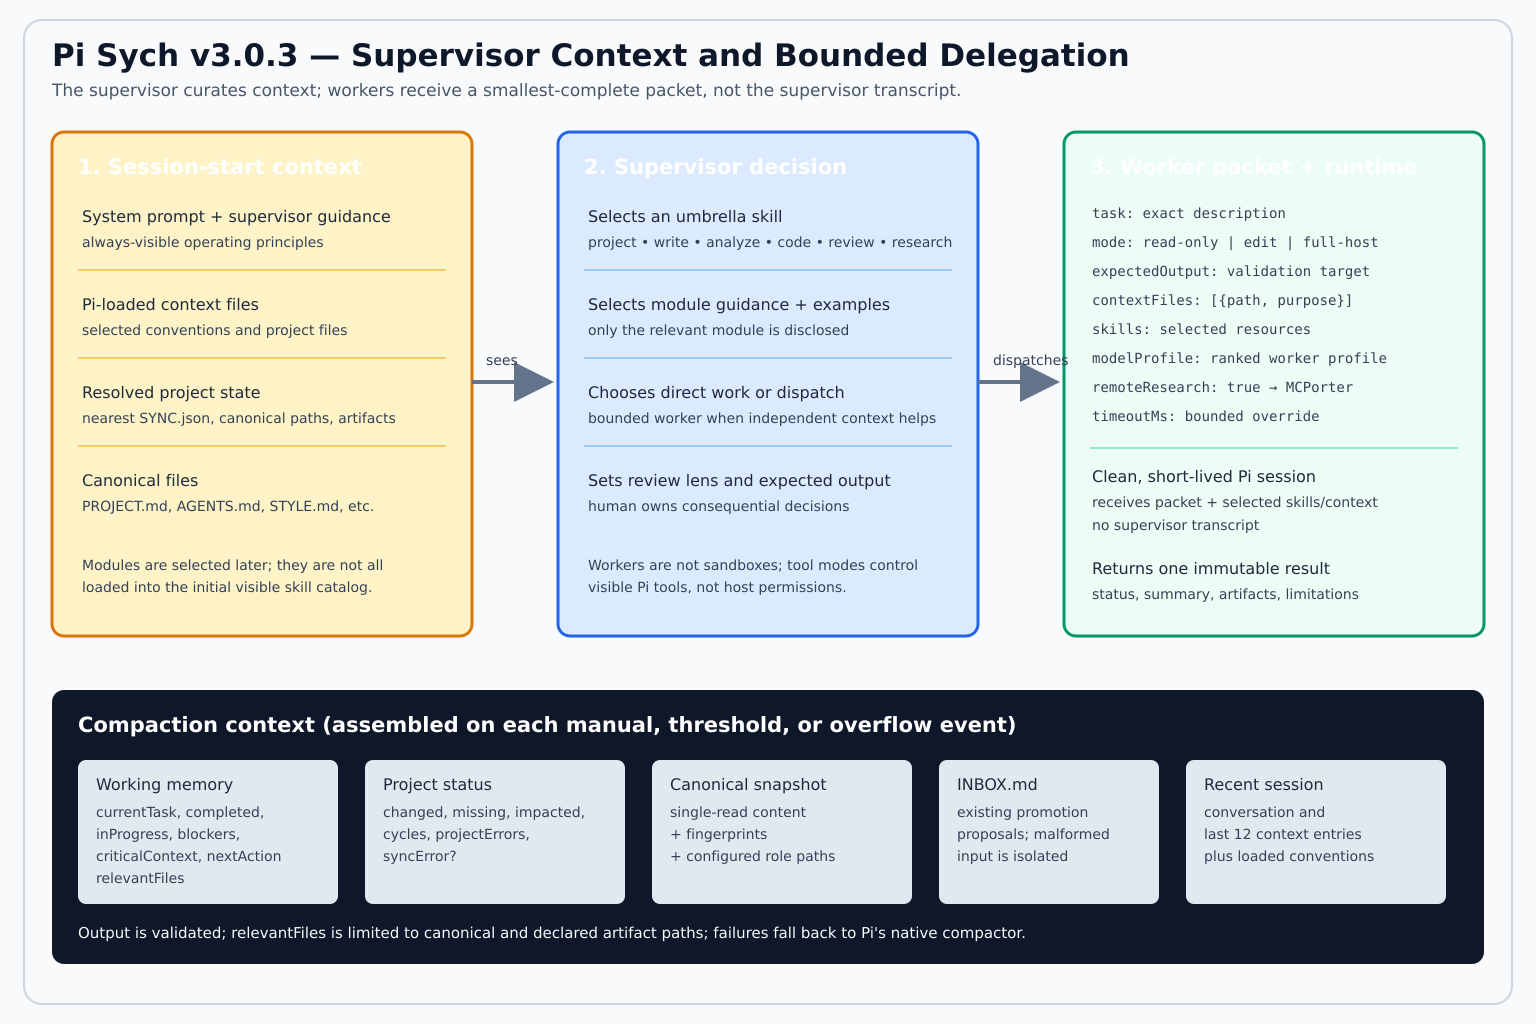
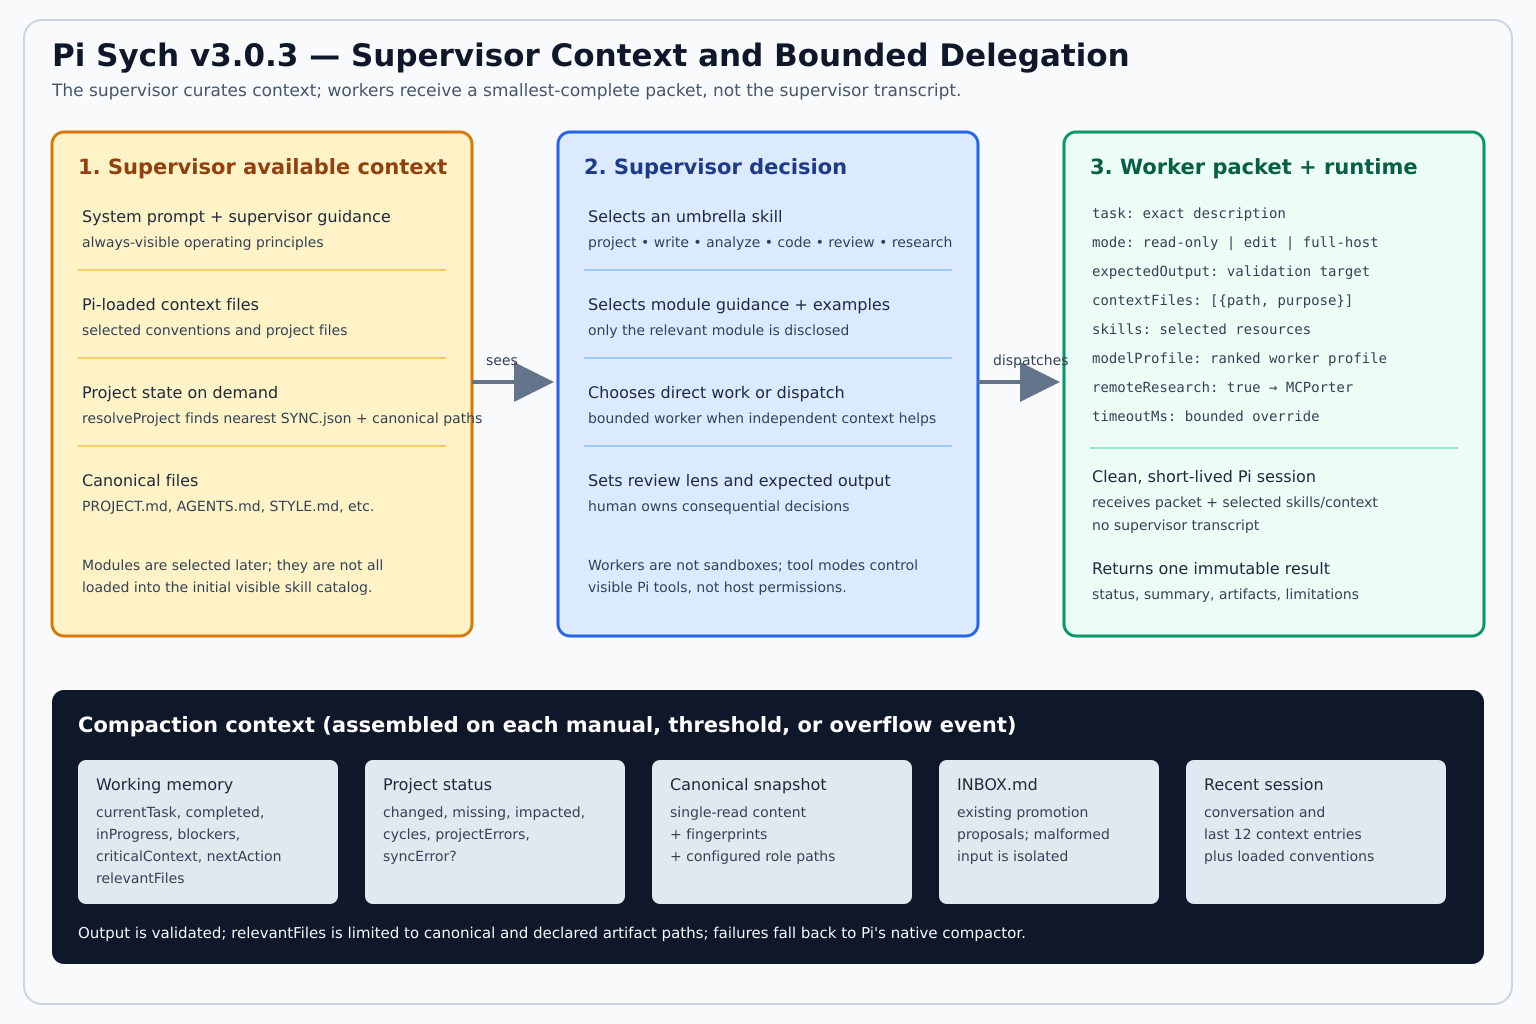
docs: correct diagram contrast and context semantics

diff --git a/docs/img/README.md b/docs/img/README.md
@@ -3,9 +3,10 @@
 - `architecture.png` presents the public tools, six-skill surface,
   `SYNC.json` v2 resolution, project-file roles, human boundary, and the
   repeatable custom-compaction pipeline with native fallback.
-- `supervisors_context.png` presents session-start context, selected
-  umbrella/module disclosure, independent review, worker packets, and
-  the status/canonical/inbox context supplied to compaction.
+- `supervisors_context.png` presents supervisor-available context,
+  selected umbrella/module disclosure, independent review, worker
+  packets, and the status/canonical/inbox context supplied to
+  compaction.
 - The diagrams are explanatory summaries. `README.md`,
   `ARCHITECTURE.md`, and the implementation remain authoritative for
   exact behavior.
